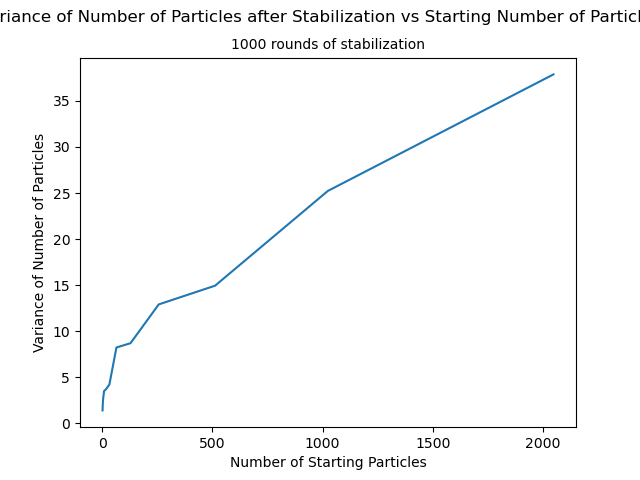
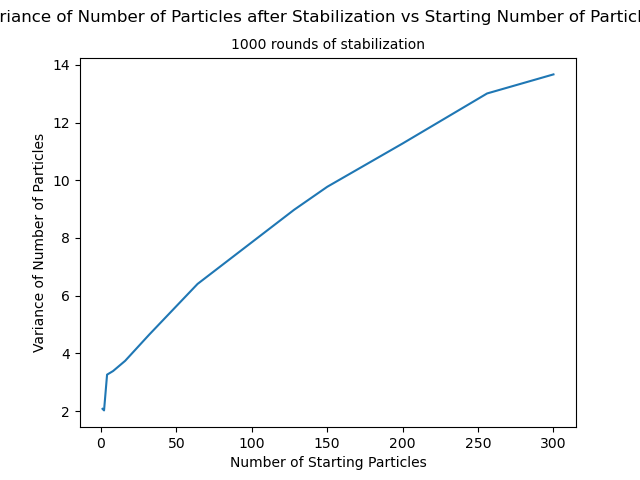
translate to java

diff --git a/arw_DD.java b/arw_DD.java
@@ -1,0 +1,137 @@
+import java.util.*;
+
+public class arw_DD {
+    public List<List<Double>> runNTrials(int nParticles, int nTrials, double lambda_rate){
+        List<index> arr = setUp(nParticles);
+        List<Double> avgDens = new ArrayList<>();
+        List<Double> numTopples = new ArrayList<>();
+
+        List<Integer> probs = generateDistribution(lambda_rate);
+
+        for (int i = 0; i < nTrials; i++){
+            returnTwo pair = runRound(arr, (arr.size() / 2), arr.size(), probs);
+            avgDens.add(pair.getDens());
+            numTopples.add((double) pair.getTopples());
+        }
+
+        List<List<Double>> returnVals = new ArrayList<>();
+        returnVals.add(avgDens);
+        returnVals.add(numTopples);
+
+        return returnVals;
+    }
+
+    private List<index> setUp(int n){
+        List<index> arr = new ArrayList<>();
+        for(int i = 0; i < n; i++){
+            arr.add(new index(1));
+        }
+
+        return arr;
+    }
+
+    private returnTwo runRound(List<index> arr, int addIndex, int lenArr, List<Integer> probs){
+        boolean topple = true;
+        int numTopples = 0;
+
+        List<Integer> instr = getInstr(probs, 100*arr.size());
+        arr.get(addIndex).editParticle(1);
+        arr.get(addIndex).editState("A");
+
+        while(topple){
+            int roundTopples = 0;
+            for(int i = 0; i < lenArr; i++){
+                index currIndex = arr.get(i);
+                if(currIndex.getState().equals("A") && currIndex.getParticle() > 0){
+                    if(instr.size() < 1){
+                        instr = getInstr(probs, 100*arr.size());
+                    }
+
+                    int currInstr = instr.remove(instr.size() - 1);
+
+                    if(currInstr == 0 & currIndex.getParticle() == 1){
+                        currIndex.editState("S");
+                        numTopples += 1;
+                        roundTopples += 1;
+                    } else if(currInstr == -1 || currInstr == 1){
+                        currIndex.editParticle(-1);
+
+                        if(currIndex.getParticle() < 1){
+                            currIndex.editState("S");
+                        } else{
+                            currIndex.editState("A");
+                        }
+
+                        if((i + currInstr) < lenArr && (i + currInstr) >= 0){
+                            arr.get(i + currInstr).editParticle(1);
+                            arr.get(i + currInstr).editState("A");
+                        }
+
+                        numTopples += 1;
+                        roundTopples += 1;
+                    }
+                }
+
+                topple = roundTopples > 0 ? true: false;
+            }
+        }
+
+        int numPar = 0;
+        for(int i = 0; i < arr.size(); i++){
+            numPar += arr.get(i).getParticle();
+        }
+        System.out.println("Average Density: " + ((numPar * 1.0) / arr.size()));
+        returnTwo returnVal = new returnTwo(((numPar * 1.0) / arr.size()), numTopples);
+        return returnVal;
+    }
+
+    private List<Integer> generateDistribution(double rate){
+        double left =  100 / (2 *(1 + rate));
+        double sleep = (rate * 100) / (1+rate);
+
+        List<Integer> possNum = new ArrayList<>();
+
+        for(int i = 0; i < (int) left; i++){
+            possNum.add(-1);
+            possNum.add(1);
+        }
+
+        for(int i = 0; i < (int) sleep; i++){
+            possNum.add(0);
+        }
+
+        return possNum;
+    }
+
+    private List<Integer> getInstr(List<Integer> probs, int n){
+        Random r = new Random();
+        List<Integer> instr = new ArrayList<>(n);
+        for(int i = 0; i < n; i++){
+            instr.add(i, probs.get(r.nextInt(probs.size())));
+        }
+
+        return instr;
+    }
+
+
+
+    private class returnTwo{
+        private double dens;
+        private int numTopples;
+
+        private returnTwo(double dens, int numTopples){
+            this.dens = dens;
+            this.numTopples = numTopples;
+        }
+
+        public double getDens(){
+            return this.dens;
+        }
+
+        public int getTopples(){
+            return this.numTopples;
+        }
+    }    
+}
+
+

diff --git a/arw_driven_dissipative.py b/arw_driven_dissipative.py
@@ -99,10 +99,16 @@ def runNTrials(nParticles = 100, nTrials = 100, lambda_rate = 0.5):
 def sampleVar(nList):
     listParticles = []
     for n in nList:
-        avgDens, numTopples = runNTrials(n, 1000)
-        listParticles.append([i * n for i in avgDens]) ## one entry in list is list of number of particles at end of each stabilization round
+        nVar = []
+        for j in range(100):
+            avgDens, _ = runNTrials(n, 1000)
+            nVar.append([i * n for i in avgDens]) ## one entry in list is list of number of particles at end of each stabilization round
+    
+        listParticles.append(nVar)
 
-    listParticles = np.var(listParticles, axis = 1) ## final list has one entry as variance of the list of number of particles at end of each stablization round
+
+    listParticles = [[np.var(items) for items in nNum] for nNum in listParticles]
+    listParticles = [np.mean(x) for x in listParticles]
     return listParticles
     
 
@@ -110,9 +116,10 @@ if __name__ == "__main__":
     ntrials = 100
     nparticles = 100
     lambda_rate = 0.5
-    nList = [1, 2, 4, 8, 16, 32, 64, 128, 256, 512, 1024, 2048]
+    #nList = [1, 2, 4, 8, 16, 32, 64, 128, 256, 512, 1024, 2048]
+    nList = [1, 2, 4, 8, 16, 32, 64, 128, 150, 200, 256, 300]
     
-    avgDens, numTopples = runNTrials(nparticles, ntrials, lambda_rate)
+    #avgDens, numTopples = runNTrials(nparticles, ntrials, lambda_rate)
     listvar = sampleVar(nList)
 
     print(listvar)
@@ -133,24 +140,24 @@ if __name__ == "__main__":
     plt.title("1000 rounds of stabiliztion", size = 10)
     plt.savefig("Plots/log_variance_of_particles.png")
 
-    plt.figure(3)
-    plt.plot(np.array(range(len(avgDens))), np.array(avgDens))
-    plt.plot(np.array(range(len(avgDens))), np.array(np.repeat(np.mean(np.array(avgDens), axis = 0), len(avgDens))), color = "hotpink")
-    plt.ylim(0.6, 0.9)
-    plt.xlabel("Number of Rounds (Trials)")
-    plt.ylabel(f"Average Density (# of Particles / Length of Array ({nparticles}))")
-    plt.suptitle("Particle Density of Driven-Dissipative ARW Model")
-    plt.title(f"Average density: {np.round(np.mean(np.array(avgDens), axis = 0), 3)}", size = 10)
-    plt.legend(["Density per Round", "Average After All Rounds"], loc="lower right")
-    plt.savefig(f"Plots/Average_density_{ntrials}_trials_{nparticles}_particles.png")
+    # plt.figure(3)
+    # plt.plot(np.array(range(len(avgDens))), np.array(avgDens))
+    # plt.plot(np.array(range(len(avgDens))), np.array(np.repeat(np.mean(np.array(avgDens), axis = 0), len(avgDens))), color = "hotpink")
+    # plt.ylim(0.6, 0.9)
+    # plt.xlabel("Number of Rounds (Trials)")
+    # plt.ylabel(f"Average Density (# of Particles / Length of Array ({nparticles}))")
+    # plt.suptitle("Particle Density of Driven-Dissipative ARW Model")
+    # plt.title(f"Average density: {np.round(np.mean(np.array(avgDens), axis = 0), 3)}", size = 10)
+    # plt.legend(["Density per Round", "Average After All Rounds"], loc="lower right")
+    # plt.savefig(f"Plots/Average_density_{ntrials}_trials_{nparticles}_particles.png")
 
-    plt.figure(4)
-    plt.plot(np.array(range(len(numTopples))), np.array(numTopples))
-    plt.xlabel("Number of Rounds (Trials)")
-    plt.ylabel(f"Number of Topples to Stabilization ({nparticles}))")
-    plt.title("Number of Topples to Stabilization of Driven-Dissipative ARW Model")
-    plt.savefig(f"Plots/Number_of_Topples_{ntrials}_trials_{nparticles}_particles.png")
-    print(f"Average density: {np.mean(np.array(avgDens), axis = 0)}")
+    # plt.figure(4)
+    # plt.plot(np.array(range(len(numTopples))), np.array(numTopples))
+    # plt.xlabel("Number of Rounds (Trials)")
+    # plt.ylabel(f"Number of Topples to Stabilization ({nparticles}))")
+    # plt.title("Number of Topples to Stabilization of Driven-Dissipative ARW Model")
+    # plt.savefig(f"Plots/Number_of_Topples_{ntrials}_trials_{nparticles}_particles.png")
+    # print(f"Average density: {np.mean(np.array(avgDens), axis = 0)}")
 
 
 

diff --git a/run_trials.java b/run_trials.java
@@ -1,0 +1,51 @@
+import java.util.*;
+
+public class run_trials{
+
+    public static void runBasicTrial(int nTrials, int nParticles, double lambda_rate){
+        arw_DD objTemp = new arw_DD();
+
+        List<List<Double>> endRound = objTemp.runNTrials(nParticles, nTrials, lambda_rate);
+
+        System.out.println("avgDens: " + endRound.get(0));
+        System.out.println("numTopples: " + endRound.get(1));
+    }
+
+    public static List<Long> timeTrials(List<Integer> nPar_Try, int nTrials, double lambda_rate){
+        List<Long> times = new ArrayList<>();
+
+        for(int n: nPar_Try){
+            List<Long> roundTimes = new ArrayList<>();
+            for (int i  = 0; i < 10; i++){
+                long startTime = System.currentTimeMillis();
+                runBasicTrial(nTrials, n, lambda_rate);
+                long endTime = System.currentTimeMillis();
+                long time = endTime - startTime;
+                roundTimes.add(time);
+            }
+            System.out.println(roundTimes);
+            long avgTime = calculateAverage(roundTimes);
+            times.add(avgTime);
+        }
+
+        return times;
+    }
+    public static void main(String[] args){
+        //runBasicTrial(100, 100, 0.5);
+
+        List<Integer> nPar_Try = new ArrayList<>(Arrays.asList(5, 5, 2, 4, 8, 10));
+        List<Long> times = timeTrials(nPar_Try, 10, 0.5);
+        System.out.println(times);
+    }
+
+    private static long calculateAverage(List <Long> counts) {
+        long sum = 0;
+        if(!counts.isEmpty()) {
+          for (long count : counts) {
+              sum += count;
+          }
+          return sum / counts.size();
+        }
+        return sum;
+      }
+}

diff --git a/index.java b/index.java
@@ -1,0 +1,41 @@
+public class index {
+    private String state;
+    private int numPar;
+
+    public index(String state, int numPar){
+        this.state = state;
+        this.numPar = numPar;
+    }
+
+    public index(String state){
+        this(state, 0);
+    }
+
+    public index(int numPar){
+        this("A", numPar);
+    }
+
+    public index(){
+        this("A", 0);
+    }
+
+    public void editParticle(int change){
+        this.numPar += change;
+    }
+
+    public void editState(String state){
+        this.state = state;
+    }
+
+    public int getParticle(){
+        return this.numPar;
+    }
+
+    public String getState(){
+        return this.state;
+    }
+
+    public String toString(){
+        return "State: " + this.state + ", numPar = " + this.numPar;
+    }
+}
